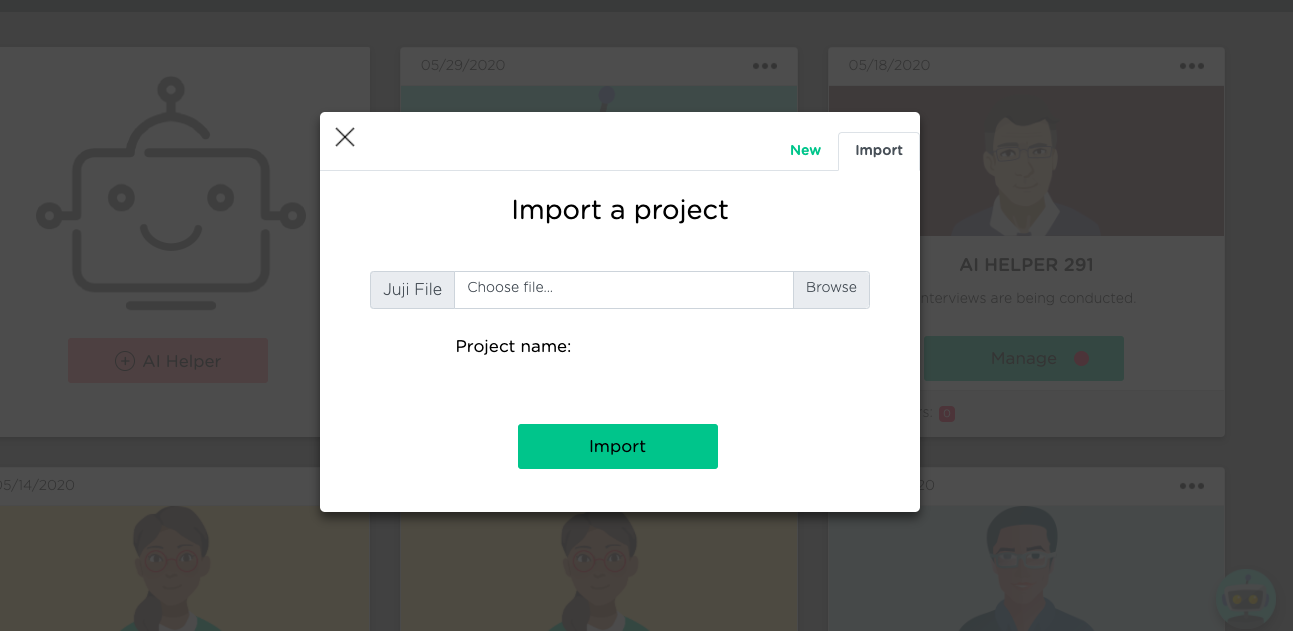
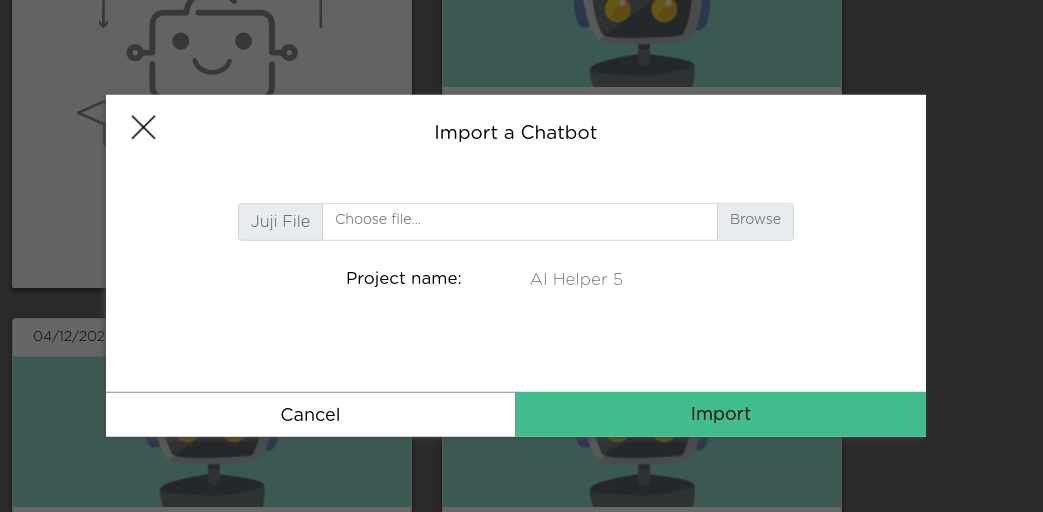
update activity tracking info; update import chatbot info

diff --git a/docs/release.md b/docs/release.md
@@ -17,29 +17,49 @@ configure the fields to be shown on the cover page:
 
 ### **Activity Tracking**
 
-An optional activity tracking setting is provided for page-owners who want to track their visitors' chat activities in their Google Analytics. In case you are not interested in adding activity tracking, you can safely skip this section and go directly to [Generate URL](#generate-url).
+An optional activity tracking setting is provided for page-owners who want to track their visitors' chat activities on their page. In case you are not interested in adding activity tracking, you can safely skip this section and go directly to [Generate URL](#generate-url).
 
 <p align="center"><img src="../img/web-activity-tracking.png" alt="Web Deployment Activity Tracking" width="650"/></p>
 
-To enable activity tracking, you will need to fill in all three fields listed in Step 2: Domain, Web URL and ID.
+There two types of activity tracking are supported: 1) Juji chat status tracking with HTML element, and 2) integration with existing Google Analytics on the page. The two types are not excluded, enabling the second type will also enable the first.
 
+#### **Juji Chat Status Tracking with HTML Element**
+
+This is a very flexible status tracking to use, because it let you define your own action when the chat status changes. To enable this tracking, you need to fill in the **Web URL** field in Step 2 with the origin of your page and install the web plugin code (regardless which web plugin setting you choose).
+
+A hidden HTML input element with id "juji-chat-status" is included when you install web widget on your website (i.e., `<input id='juji-chat-status' type='hidden' value='not chatted'>`). When the chat is started by your visitor, the value of the element will change from "not chatted" to "chatted" and a "change" event will be dispatched. As a results, you can react to such change event and perform all kinds of actions (e.g., send info to your analytics etc.). Below is an simple example HTML script that sends an alert to the page when the chat is initiated by the visitor.
+
+```html
+<script>
+  var chatStatusElement = document.getElementById('juji-chat-status');
+  chatStatusElement.addEventListener(
+      'change',
+      function() {alert("Juji chat started!");}
+  );
+</script>
+```
+
+#### **Google Analytics Integration**
+
+To enable Google Analytics Integration, you will need to fill in all three fields listed in Step 2: Domain, Web URL and ID.
+
+* **Web URL**: the origin of your page, this will typically be scheme + `://` + domain, e.g., `https://mozilla.org`. If you are familiar with JavaScript, you may find this URL by checking `window.location.origin;` inside the web console on your page.
 * **Domain**: the domain of your page without the scheme or path, e.g., `mozilla.org`
-* **Web URL**: the origin of your page, this will typically be scheme + `://` + domain, e.g., `https://mozilla.org`
 * **ID**: the Google Analytics tracking ID. You can get this ID on your Google Analytics page, go to Admin > Property Settings > Tracking Info > Tracking Code > Tracking ID. The ID will have format similar to `UA-123456789-1`.
 
 Once the activity tracking is enabled, your deployed Juji web chat page will be updated with your tracking info. 
 
-**Web Widget Activity Tracking**: If you are using Juji web widget on your page, you simply insert your web plugin code as instructed in the [Deploy as Web Widget](#deploy-as-web-widget) section below. The code gets updated automatically with your activity tracking setting, so if you change your setting here, make sure you use the updated web plugin code. 
+**Web Widget Google Analytics Integration**: If you are using Juji web widget on your page, you simply insert your web plugin code as instructed in the [Deploy as Web Widget](#deploy-as-web-widget) section below. The code gets updated automatically with your activity tracking setting, so if you change your setting here, make sure you use the updated web plugin code. 
 
-**Web URL Activity Tracking**: If you are using web URL directly and you want to have cross-domain tracking between your site and your Juji chat, you will need to perform the following two actions in order to ensure the chat activities appear appropriately inside your Google Analytics.
+**Web URL Google Analytics Integration**: If you are using web URL directly and you want to have cross-domain tracking between your site and your Juji chat, you will need to perform the following two actions in order to ensure the chat activities appear appropriately inside your Google Analytics.
   
   1. Copy the GA SECTION from the web plugin code and insert it directly after the opening <body> tag on each page where you want the linking happen. However, if you already have Google Analytics linker set up, just add the domains to your existing linkers.
   2. Adding "juji.ai" to your Google Analytics referral exclusion list at Admin > Property Settings > Tracking Info > Referral Exclusion List
 
-After everything is set up correctly, wait for a day for the Google Analytics change kicks in. Then you will see pageviews similar to `/chat/606c1558-d290-4387-b870-8462ae3e3ee5`. Such pageviews tell you those visitors have chatted with your Juji chatbot. 
+After everything is set up correctly, wait for a day for the Google Analytics change kicks in. Then you will see pageviews similar to `/chat/606c1558-d290-4387-b870-8462ae3e3ee5`. Such pageviews tell you those visitors have chatted with your Juji chatbot.
 
-#### Quick Start with the Chat Activity Info
-A good way to use the extra piece of chat activity info is to create two segments in your Google Analytics View - "chatted" and "not chatted", and use them to evaluate your chatbot's influence on your page.
+#### Quick Start with the Chat Activity Info on Google Analytics
+A good way to use the extra piece of chat activity info after Google Analtyics integration is to create two segments in your Google Analytics View - "chatted" and "not chatted", and use them to evaluate your chatbot's influence on your page.
 
 To create segments, you go to Admin > View Settings > Segments > + NEW SEGMENT. For "chatted" segment, you edit the Seqences as shown below:
 
@@ -49,11 +69,16 @@ For "not chatted" segment, you change the filter type from "Include" to "Exclude
 
 <p align="center"><img src="../img/not-chatted-ga-segment.png" alt="Configure not-chatted google analytics segment" width="650"/></p>
 
+Alternatively, you may import the prebuilt segments to your Google Analytics account by clicking into the following links:
+
+  * chatted: https://analytics.google.com/analytics/web/template?uid=x_wa63uXQVSOlw-SPgW2qg
+  * not chatted: https://analytics.google.com/analytics/web/template?uid=wfFkNpiEQd-Bw8GK3a6hAA
+
 Now, you can add the new segments in our metrics tables (Goals, Site Content etc.), and see how they perform. 
 
 <p align="center"><img src="../img/ga-site-content-w-segments.png" alt="Google Analytics site content all pages with chatted vs not-chatted segments" width="650"/></p>
 
-#### Activity Tracking with Google Tag Manager
+#### Integration with Google Tag Manager
 
 The activity tracking setting also works with Google Tag Manager, but it will require some setup in Google Tag Manager. Please contact support at(@) juji.io if you need assistance on setting up activity tracking with your Google Tag Manager. 
 

diff --git a/README.md b/README.md
@@ -31,12 +31,15 @@ Then go to Github to create a new pull request for https://github.com/juji-io/do
 
 ## Local setup
 
-To build the site, make sure you have python on your system. It is safer to use the same version of python as we do. The easist way to ensure this is to install pyenv, and install the right version of python using it. Please follow [its instruction](https://github.com/pyenv/pyenv) to set it up. It is important to add `pyenv init` to your shell. Otherwise you may not be using the right version of python. 
+To build the site, make sure you have python on your system. It is safer to use the same version of python as we do. There are multiple ways to ensure this. Below we show how you can set up with pyenv or conda.
+
+### pyenv
+One option is to install pyenv, and install the right version of python using it. Please follow [its instruction](https://github.com/pyenv/pyenv) to set it up. It is important to add `pyenv init` to your shell. Otherwise you may not be using the right version of python. 
 
 ```bash
 brew install pyenv
-pyenv install 3.6.6
-pyenv global 3.6.6
+pyenv install 3.9
+pyenv global 3.9
 ```
 
 Test that you have the right version of python `python --version`.
@@ -47,8 +50,18 @@ Now install needed extensions:
 pip install mkdocs
 pip install mkdocs-material==<version>
 ```
-
 Get mkdocs-material version from theme/base.html by searching for "mkdocs-material" in the file.
+
+### conda
+Conda is another popular option for install virtual python env. Follow [conda installation on mac](https://docs.conda.io/projects/conda/en/latest/user-guide/install/macos.html).
+```bash
+conda create -n juji-doc python=3.9
+conda activate juji-doc
+conda install -c conda-forge mkdocs
+conda install -c conda-forge mkdocs-material=<version>
+```
+Get mkdocs-material version from theme/base.html by searching for "mkdocs-material" in the file.
+
 
 ## Assets and Links
 

diff --git a/docs/chatbot-design-tips-advanced.md b/docs/chatbot-design-tips-advanced.md
@@ -148,13 +148,12 @@ To export your Juji chatbot hit the (...) ellipsis drop down menu and this time 
 <p align="center"><img src="../img/export-a-chatbot.png" alt="Export a
 chatbot" width="650"/></p>
 
-To import a Juji chatbot, just click on the `+ AI Helper`
-button then hit the `Import` tab to import an exported `*.juji`
+To import a Juji chatbot, just click on the import icon as shown below to import an exported `*.juji`
 file. After importing a chatbot, you can then [customize](../design),
 [deploy](../release), and [manage](../reports) the chatbot as if it
 were created by you from scratch.
 
-<p align="center"><img src="../img/create-a-chatbot-btn.png" alt="+ AI Helper
+<p align="center"><img src="../img/import-a-chatbot-btn.png" alt="+ AI Helper
 button" width="350"/></p>
 
 <p align="center"><img src="../img/import-a-chatbot.png" alt="Import a
